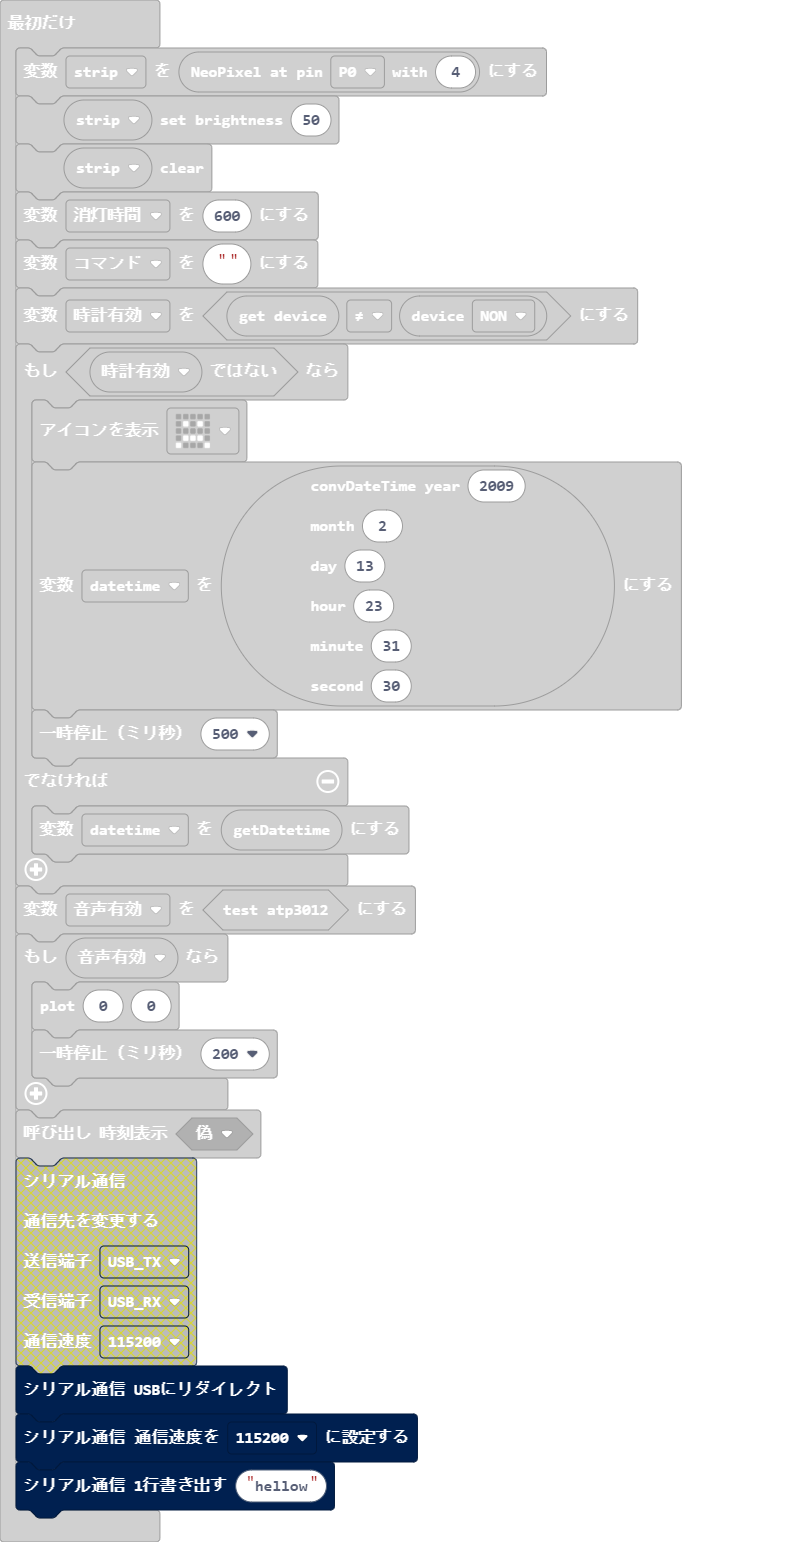
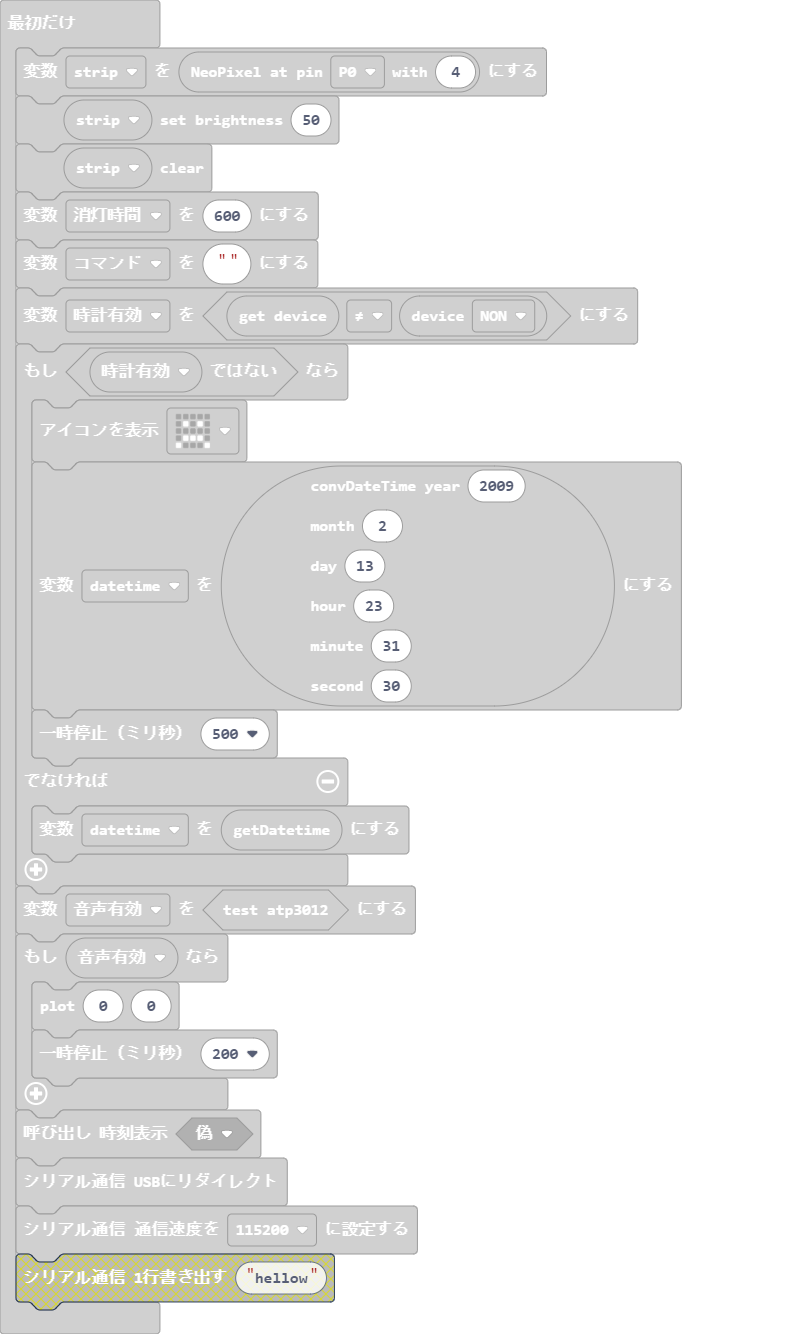
Update main.blocks, main.ts

Changed region(s): [[0.0, 0.0, 0.8866, 0.9835], [0.1223, 0.3688, 0.1834, 0.3996], [0.0611, 0.3688, 0.0917, 0.3996]]

diff --git a/main.ts b/main.ts
@@ -99,7 +99,6 @@ if (音声有効) {
 時刻表示(false)
 serial.redirectToUSB()
 serial.setBaudRate(BaudRate.BaudRate115200)
-serial.writeLine("hellow")
 basic.forever(function () {
     basic.pause(100)
     if (受信文字 != "") {
